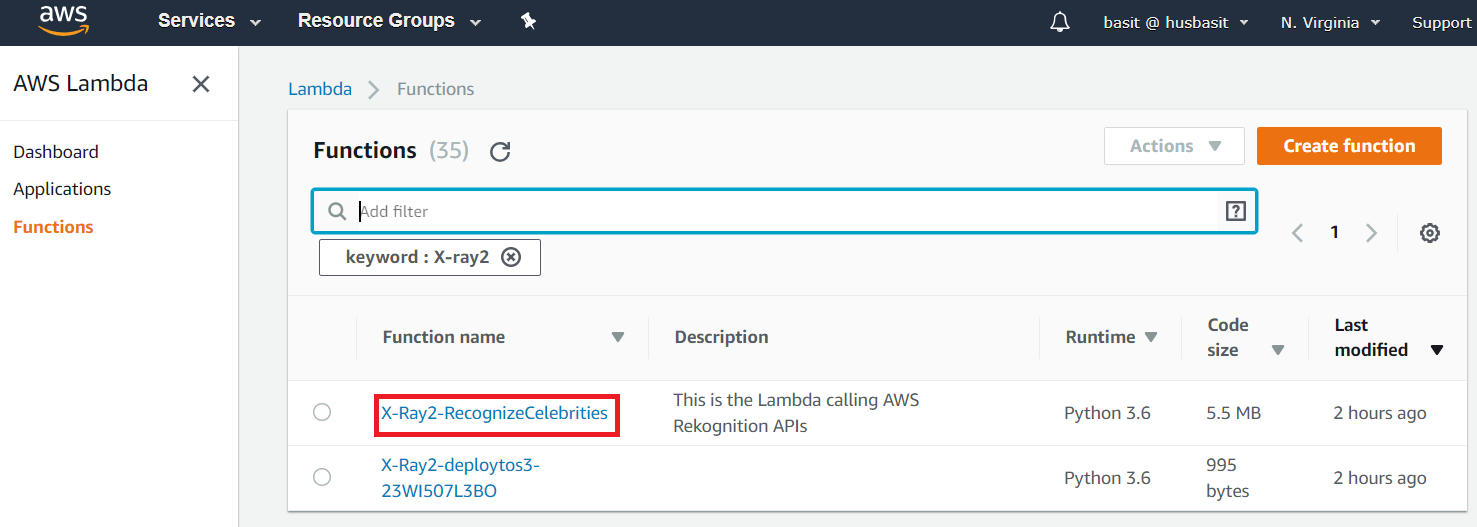
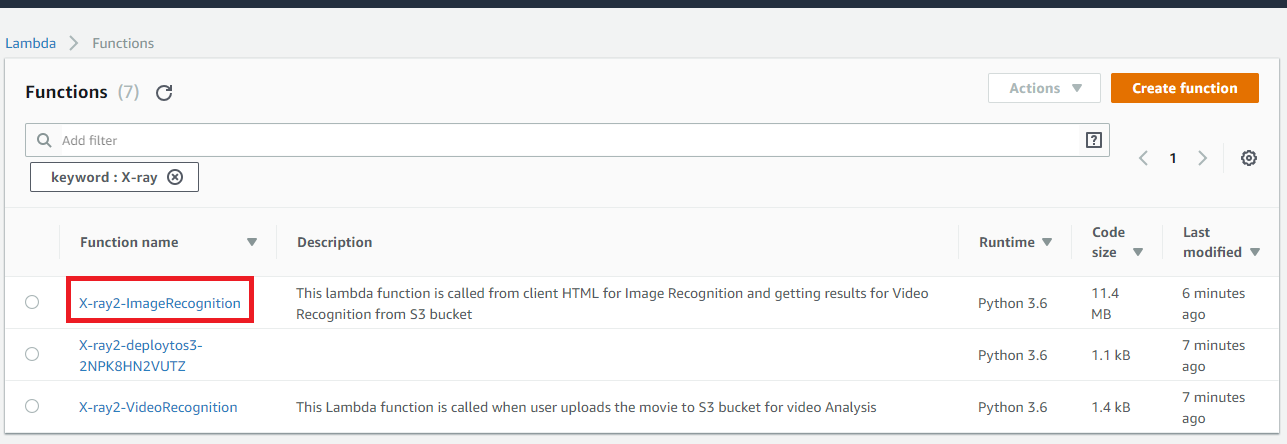
X-ray

diff --git a/3-x-ray/README.md b/3-x-ray/README.md
@@ -1,5 +1,6 @@
+
 # X-Ray
-In this module we will build an end to end solution like Prime Video X-Ray to recognize mainstream and custom celebrities. We use RecognizeCelebrities and SearchFacesByImage APIs to recognize mainstream and custom celebrities.
+In this module we will build an end to end solution like Prime Video X-Ray to recognize mainstream and custom celebrities. We use RecognizeCelebrities and SearchFacesByImage APIs to recognize mainstream and custom celebrities. We will also demonstrate how to analyze a video using Rekognition and identify people in it.
 
 ## Pre-requisites
 This module requires completion of previous modules:
@@ -16,17 +17,16 @@ In this section we will deploy the solution using CloudFormation template. This 
 
 Region| Launch
 ------|-----
-US East (N. Virginia) | [![Create IAM Role for SageMaker us-east-1](http://docs.aws.amazon.com/AWSCloudFormation/latest/UserGuide/images/cloudformation-launch-stack-button.png)](https://console.aws.amazon.com/cloudformation/home?region=us-east-1#/stacks/create/review?stackName=X-Ray&templateURL=https://s3.amazonaws.com/husbasit-dl-artifacts/AnalyzeImage.yaml)
+US East (N. Virginia) | [![Launch Who-is-Who Workshop in us-east-1](http://docs.aws.amazon.com/AWSCloudFormation/latest/UserGuide/images/cloudformation-launch-stack-button.png)](https://console.aws.amazon.com/cloudformation/home?region=us-east-1#/stacks/create/review?stackName=X-Ray&templateURL=https://s3.us-east-1.amazonaws.com/who-is-who-ws-us-east-1/who-is-who-deploy.yaml)
+US East (Ohio) | [![Launch Who-is-Who Workshop in us-east-2](http://docs.aws.amazon.com/AWSCloudFormation/latest/UserGuide/images/cloudformation-launch-stack-button.png)](https://console.aws.amazon.com/cloudformation/home?region=us-east-2#/stacks/create/review?stackName=X-Ray&templateURL=https://s3.us-east-2.amazonaws.com/who-is-who-ws-us-east-2/who-is-who-deploy.yaml)
+US West (Oregon) | [![Launch Who-is-Who Workshop in us-west-2](http://docs.aws.amazon.com/AWSCloudFormation/latest/UserGuide/images/cloudformation-launch-stack-button.png)](https://console.aws.amazon.com/cloudformation/home?region=us-west-2#/stacks/create/review?stackName=X-Ray&templateURL=https://s3.us-west-2.amazonaws.com/who-is-who-ws-us-west-2/who-is-who-deploy.yaml)
+EU (Ireland) | [![Launch Who-is-Who Workshop in eu-west-1](http://docs.aws.amazon.com/AWSCloudFormation/latest/UserGuide/images/cloudformation-launch-stack-button.png)](https://console.aws.amazon.com/cloudformation/home?region=eu-west-1#/stacks/create/review?stackName=X-Ray&templateURL=https://s3.eu-west-1.amazonaws.com/who-is-who-ws-eu-west-1/who-is-who-deploy.yaml)
 
-2. Under Create stack, check both checkboxes for **I acknowledge that AWS CloudFormation might create IAM resources with custom names** and **I acknowledge that AWS CloudFormation might create IAM resources.**. Click **Create Change Set** button.
+2. Under Create stack, check both checkboxes for **I acknowledge that AWS CloudFormation might create IAM resources with custom names** and click **Create** button.
 
 ![](assets/Cf1.png)
 
-3. Click on **Execute** button.
-
-![](assets/Cf2.png)
-
-4. You should now see the screen with status **CREATE_IN_PROGRESS**. Click on the **Stacks** link in the top navigation to see current CloudFormation stacks.
+3. You should now see the screen with status **CREATE_IN_PROGRESS**. Click on the **Stacks** link in the top navigation to see current CloudFormation stacks.
 
 ![](assets/Cf3.png)
 
@@ -57,7 +57,7 @@ In this section we need to verify that environment variables defined in Lambda f
 
 1. Go to AWS Lambda in AWS Console at https://console.aws.amazon.com/lambda/
 
-2. Enter your CloudFormation Stack name in the Search text box and press **Enter** key. This will show a list of functions. Click on the function name ending in **-RecognizeCelebrities**
+2. Enter your CloudFormation Stack name in the Search text box and press **Enter** key. This will show a list of functions. Click on the function name ending in **-ImageRecognition**
 
 ![](assets/Lambda1.png)
 
@@ -65,10 +65,39 @@ In this section we need to verify that environment variables defined in Lambda f
 
 ![](assets/Lambda2.png)
 
+4. Repeat Step 1 to 3 for the Lambda function ending in **-VideoRecognition**
+
+## Upload video file to S3 bucket
+Part of this workshop is to demonstrate how we can analyze a video file using Rekognition. In this step, we will upload a video file to a S3 bucket. This will trigger  **-VideoRecognition** Lambda function to submit the video file to Rekognition for identification of mainstream and custom celebrities using **StartCelebrityRecognition** and **StartFaceSearch** APIs. Result of this analysis will be stored in S3 bucket for later consumption from our Client HTML page.
+
+1. Download the [video file](https://s3-us-west-2.amazonaws.com/ki-rekognition-content-uw2/serverless-bytes.mov) and save it locally.
+
+2. Go to the CloudFormation console [https://console.aws.amazon.com/cloudformation/home](https://console.aws.amazon.com/cloudformation/home)
+
+3. Click the checkbox next to the stack you created in this lab (default:X-ray). 
+
+4. Select **Resources** tab from the bottom pane and navigate to **SrcBucket** under **Logical ID** column. Click on the hyperlink for the S3 bucket (under **Physical ID** column) to open the S3 bucket. 
+
+![](assets/s3video1.png)
+
+5. Click on **Upload** button.
+
+![](assets/s3video2.png)
+
+6. Click on **Add Files** button and select **serverless-bytes.mov** video in file selection dialog from your local machine **OR** drag and drop **serverless-bytes.mov** file on the **Upload** dialog box.
+
+![](assets/s3video3.png)
+
+7. Click the **Next** button, click **Next** on **Set permissions** and **Set properties** screens and finally click the **Upload** button on **Review** screen to upload the file to S3 bucket.
+
+8. As soon as the file is uploaded, S3 will trigger **-VideoRecognition** Lambda function. It will submit the file to AWS Rekognition for analysis and finally save the JSON result of that analysis to this same bucket as **serverless-bytes.mov-results.json**. In 3-4 minutes, refresh the bucket to see the JSON file appear in S3 bucket.
+
+![](assets/s3video4.png)
+
 ## Modify HTML Client
 In this section we will modify the HTML Client to point it to the REST endpoint service we have deployed on API Gateway using CloudFormation.
 
-1. Copy the value of **S3Bucket** variable from the reference variables you copied to text editor in **Step 8** of previous section **OR** Repeat **Step 7** of previous section and copy the value for **S3Bucket** from **Outputs**.
+1. Copy the value of **S3BucketHTML** variable from the reference variables you copied to text editor in **Step 8** of previous section **OR** Repeat **Step 7** of previous section and copy the value for **S3Bucket** from **Outputs**.
 
 2. Go to Amazon S3 in AWS Console at https://s3.console.aws.amazon.com/s3/
 
@@ -84,9 +113,11 @@ In this section we will modify the HTML Client to point it to the REST endpoint 
 
 ![](assets/ClientHtml4.png)
 
-6. Open **xray.html** on your local machine using a text editor of your choice. Search for the following line in **xray.html** code. We need to update **apiGatewayUrl** variable to correct URL.
+6. Open **xray.html** on your local machine using a text editor of your choice. Search for the following line in **xray.html** code. We need to update **apiGatewayUrl** and **apiGatewayUrlVideo** variables to correct URLs.
 ```
-apiGatewayUrl = 'TODO: Enter the path to your API Gateway endpoint'
+var apiGatewayUrl ='TODO: Enter the path to your API Gateway POST endpoint /celebrity';
+
+var apiGatewayUrlVideo= 'TODO: Enter the path to your API Gateway GET endpoint /celebrities';
 ```
 7. We need to get the REST endpoint from API Gateway. Go to Amazon API Gateway in AWS Console at https://console.aws.amazon.com/apigateway/.
 
@@ -94,15 +125,24 @@ apiGatewayUrl = 'TODO: Enter the path to your API Gateway endpoint'
 
 ![](assets/apigw1.png)
 
-9. As shown in following screen shot, click on **Stages** in left menu under your **API** name. Then click **Prod** -> **POST** under **Stages** as shown in screen shot. Copy the value of **Invoke URL**. This is the endpoint your Client HTML should point to.
+9. As shown in following screen shot, click on **Stages** in left menu under your **API** name. Then click **Prod** -> **GET** under **Stages** as shown in screen shot. Copy the value of **Invoke URL**. This is the endpoint your Client HTML variable **apiGatewayUrl** should point to. Follow the click sequence as numbered in following screen shot
 
 ![](assets/apigw2.png)
 
-10. Go to the text editor on your local machine where **xray.html** was being edited in **Step 6**. Replace the text **TODO: Enter the path to your API Gateway endpoint** with the recently copied API Gateway endpoint from **Step 9**.
+10. Go to the text editor on your local machine where **xray.html** was being edited in **Step 6**. Replace the text **var apiGatewayUrl =TODO: Enter the path to your API Gateway endpoint** with the recently copied API Gateway endpoint from **Step 9**.
 ```
-apiGatewayUrl = 'https://th123abcd1.execute-api.us-east-1.amazonaws.com/Prod/RecognizeCelebrities'
+apiGatewayUrl = 'https://ddh2eemclh.execute-api.eu-west-1.amazonaws.com/Prod/celebrities'
 ```
-11. Save the file **xray.html**.
+11. As shown in following screen shot, click on **Stages** in left menu under your **API** name. Then click **Prod** -> **POST** under **Stages** as shown in screen shot. Copy the value of **Invoke URL**. This is the endpoint your Client HTML variable **apiGatewayUrlVideo** should point to. Follow the click sequence as numbered in following screen shot
+
+![](assets/apigw3.png)
+
+12.  Replace the text **var apiGatewayUrlVideo =TODO: Enter the path to your API Gateway endpoint** with the recently copied API Gateway endpoint from **Step 11**.
+```
+apiGatewayUrlVideo = 'https://ddh2eemclh.execute-api.eu-west-1.amazonaws.com/Prod/celebrity'
+```
+
+13. Save the file **xray.html**.
 
 ## Upload xray.html to S3 bucket
 
@@ -134,11 +174,16 @@ apiGatewayUrl = 'https://th123abcd1.execute-api.us-east-1.amazonaws.com/Prod/Rec
 
  **Hint:** if you don't have the URL, you can get it from CloudFormation Stack **bucketURL** Output variable  **OR** Repeat **Step 7** of [Deploy Solution](#deploy-solution) and copy the value for **bucketURL** from **Outputs**.
 
-2. Click on **Recognize Celebrities** button and you will see the output(response) coming from Amazon Rekognition.
+2. Click on **Play** button. Once the video starts playing, click on **Recognize Celebrities** button. Video will pause and you will see red boxes with the names of identified celebrities by Amazon Rekognition. 
 
+3. Click on **VIdeo Analysis** tab and  click **Recognize Celebrities** button. The video will start playing and identified celebrities will be marked in red boxes.
 
 ## Completion
 You have successfully created Amazon Prime X-Ray feature using AWS Rekognition, AWS Lambda, API Gateway. This solution recognizes mainstream celebrities as well as custom celebrities.
 
 ## Clean up
-TODO: Basit to modify Cloudformation template.
+1. Delete the 2 S3 buckets created in this solution.
+2. Go to the CloudFormation console [https://console.aws.amazon.com/cloudformation/home](https://console.aws.amazon.com/cloudformation/home) 
+3. Select the checkbox next to the Stack Name we created.
+4. Click on **Actions** button and select **Delete Stack**
+5. Refresh the section in 3-4 minutes to make sure stack is deleted.
